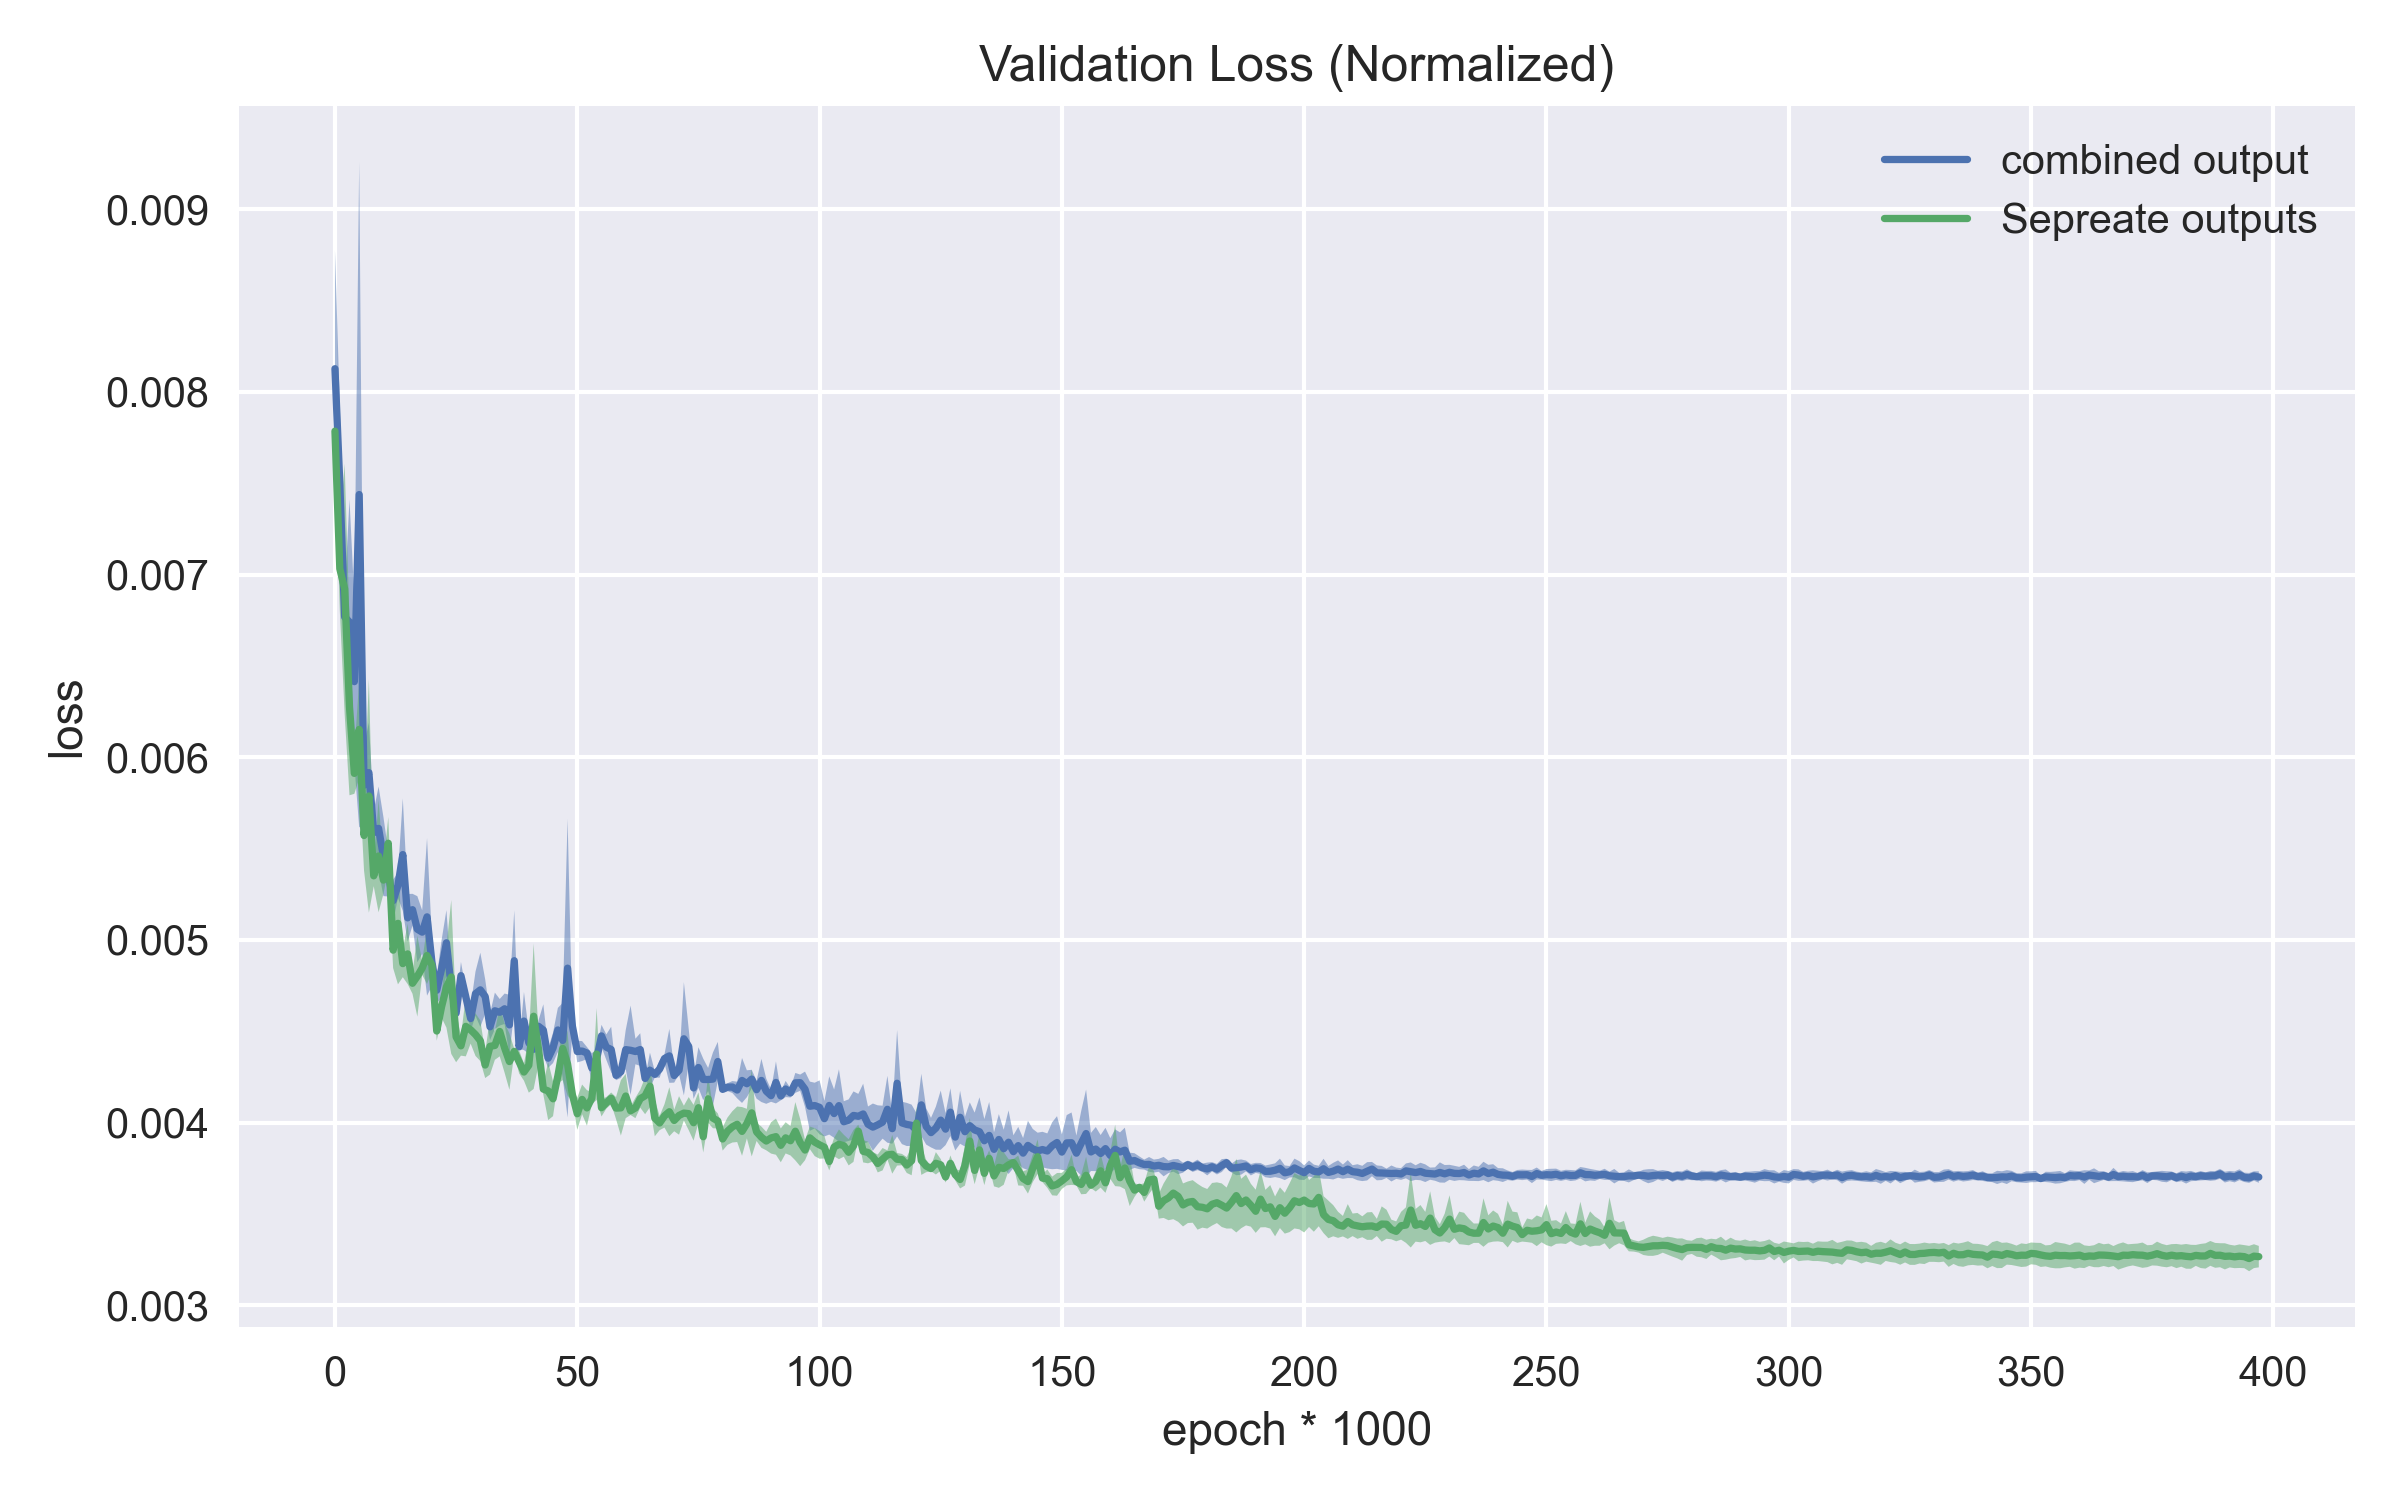
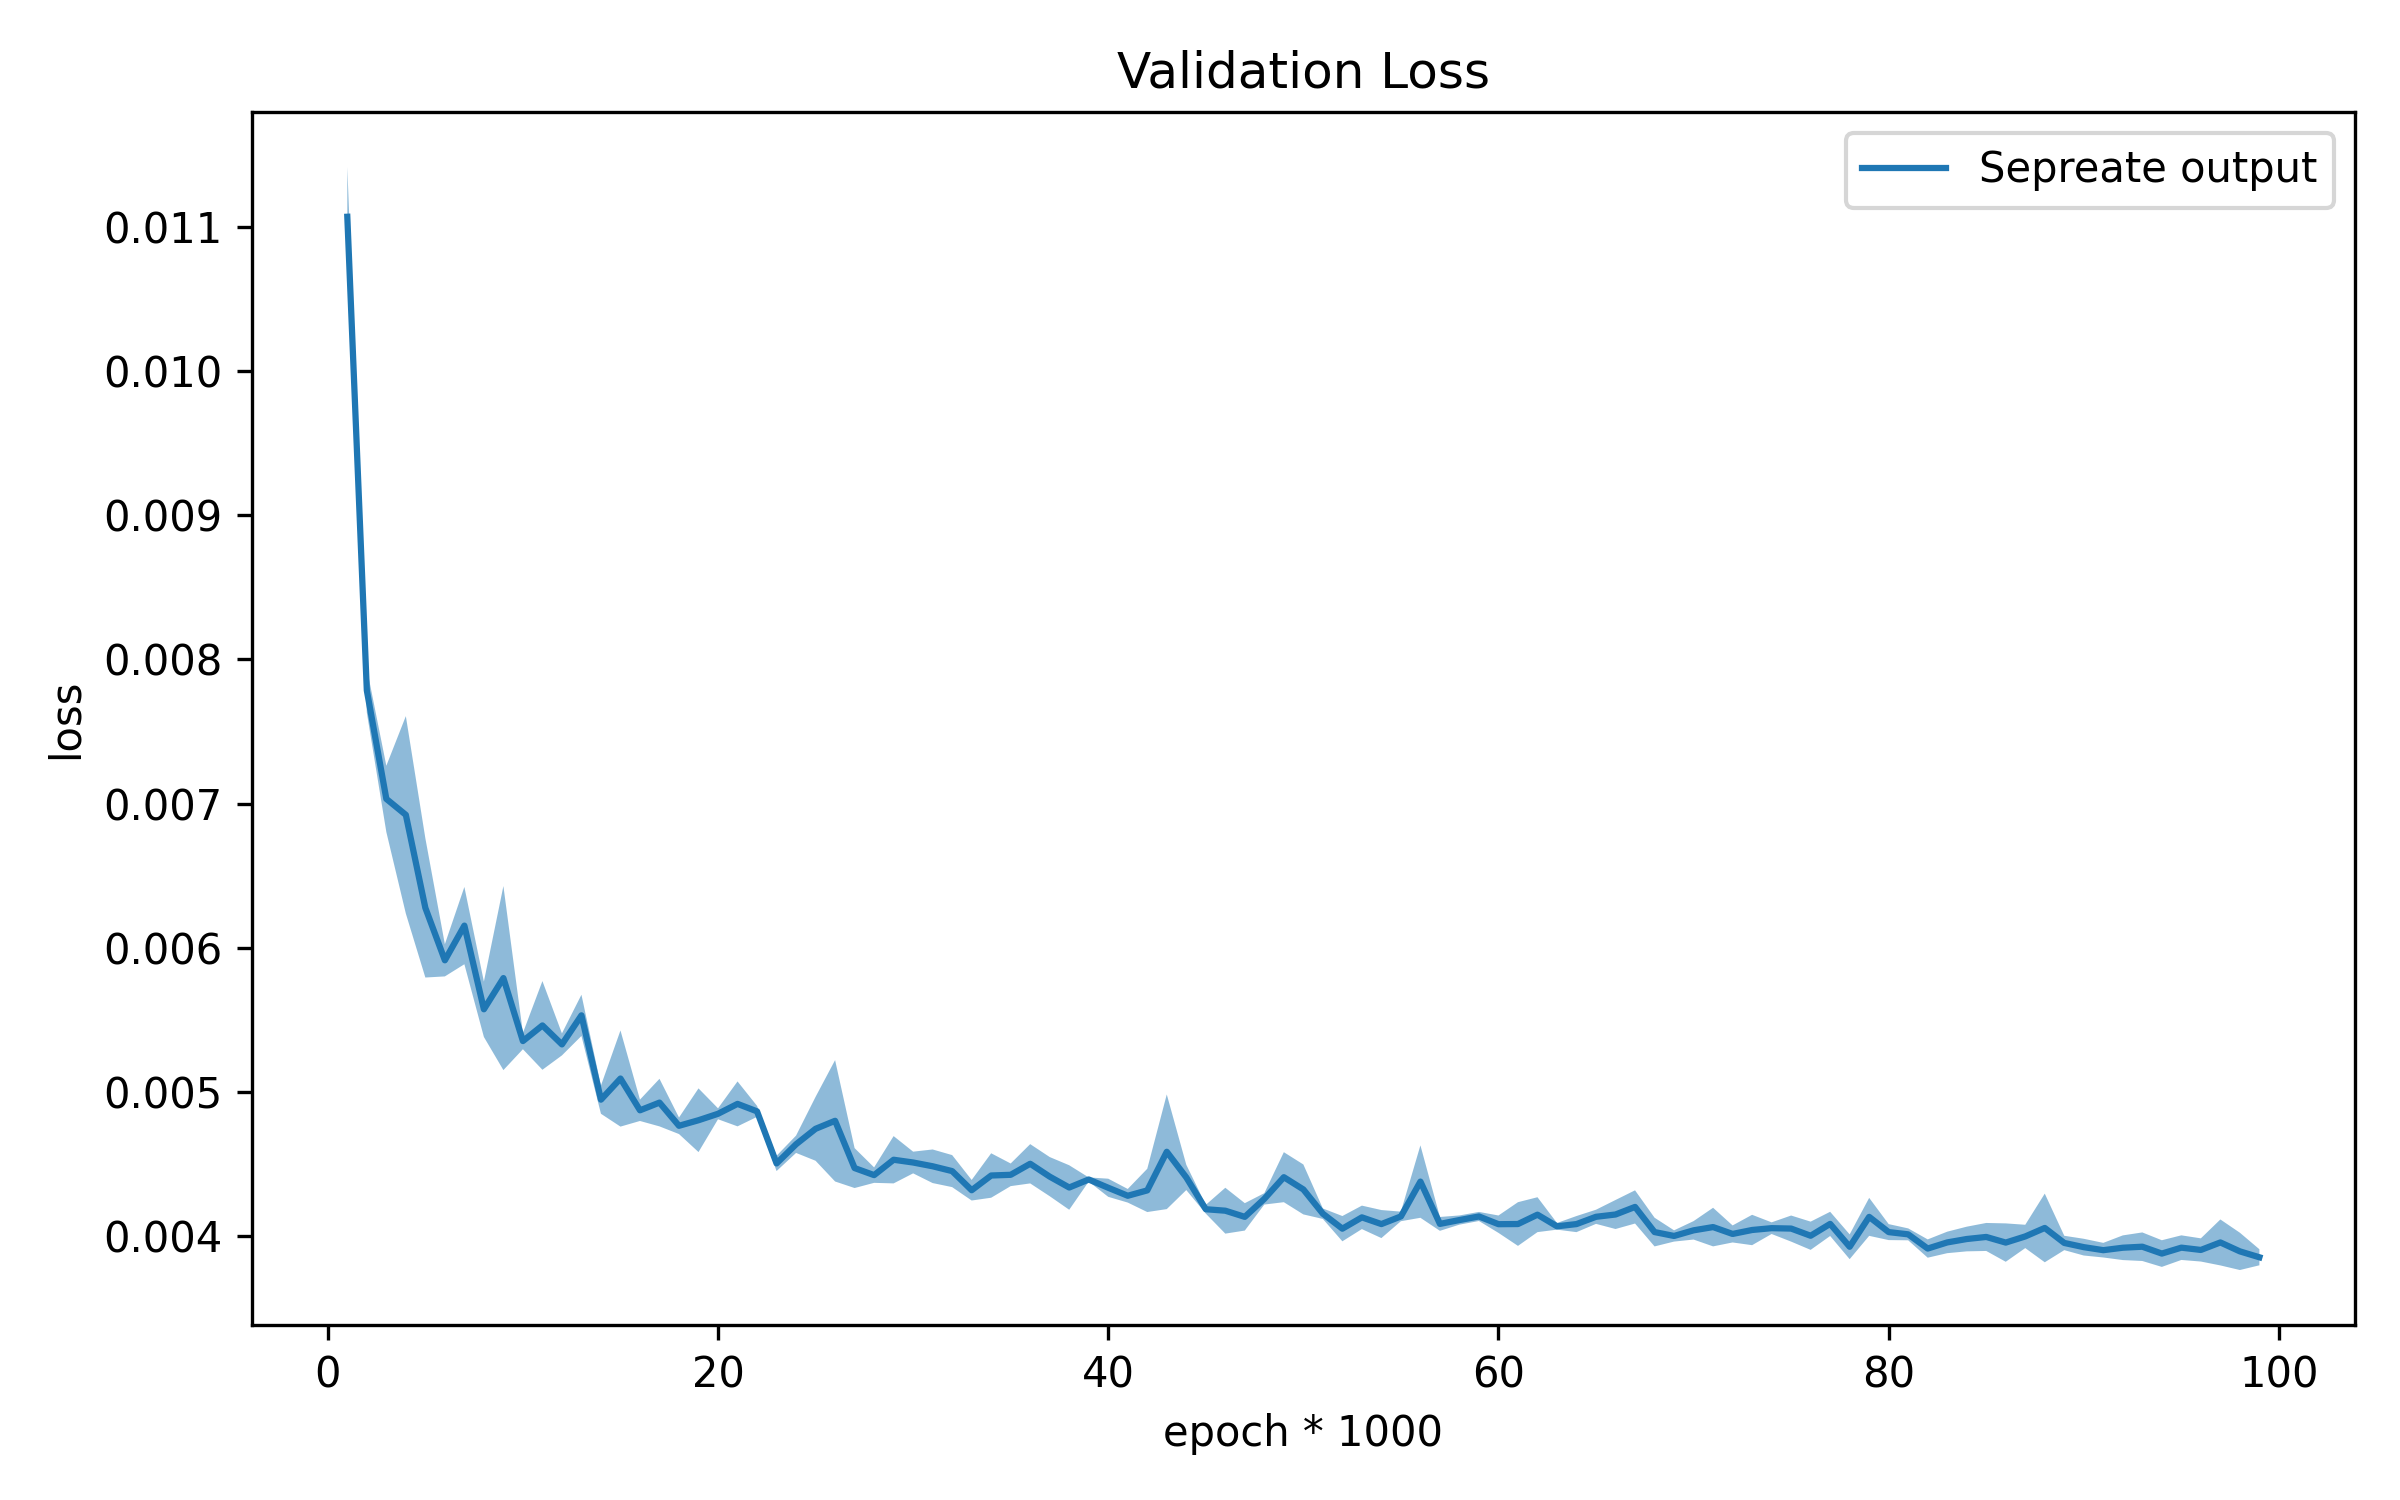
plot

diff --git a/learning_curve.py b/learning_curve.py
@@ -3,13 +3,14 @@ import matplotlib.pyplot as plt
 
 
 class LearningCurve:
-    def __init__(self, dists, epoch):
+    def __init__(self, dists, start, epoch):
         self.dists = dists
         self.seeds = [0, 1, 3]
+        self.start = start
         self.epoch = epoch
         self.curve_dict = {}
         for dist in dists:
-            self.load_data(dist)
+            # self.load_data(dist)
             self.load_data(dist, sep=True)
 
 
@@ -20,40 +21,47 @@ class LearningCurve:
                 path = "train_log_model/%s_id%d_%d(%d)_%s(%s)_cam%d(%d)_sep" % ('sim', 0, 8000, seed, 'PE', 'arm', dist * 1000, seed)
             else:
                 path = "train_log_model/%s_id%d_%d(%d)_%s(%s)_cam%d(%d)" % ('sim', 0, 8000, seed, 'PE', 'arm', dist * 1000, seed)
-            train_log = np.loadtxt(path + "/log_train.txt")[-self.epoch:] # shape: (epoch,)
-            val_log = np.loadtxt(path + "/log_val.txt")[-self.epoch:] # shape: (epoch,)
+            # train_log = np.loadtxt(path + "/log_train.txt")[-self.epoch:] # shape: (epoch,)
+            # val_log = np.loadtxt(path + "/log_val.txt")[-self.epoch:] # shape: (epoch,)
+            train_log = np.loadtxt(path + "/log_train.txt")[self.start:self.epoch] # shape: (epoch,)
+            val_log = np.loadtxt(path + "/log_val.txt")[self.start:self.epoch] # shape: (epoch,)
             log = np.vstack((train_log, val_log)) # shape: (2, epoch)
 
             curve.append(log)
 
         curve = np.array(curve) # shape: (3, 2, epoch)
         print(curve.shape)
-        if sep:
-            self.curve_dict[dist+1] = curve
-        else:
-            self.curve_dict[dist] = curve # dictionary: {dist: (3, 2, epoch)}
+        # if sep:
+        #     self.curve_dict[dist+1] = curve
+        # else:
+        #     self.curve_dict[dist] = curve # dictionary: {dist: (3, 2, epoch)}
+
+        self.curve_dict[dist] = curve
 
             
 
     def plot_curves(self):
         plt.figure(figsize=(8, 5))
-        plt.style.use('seaborn')
-        x = np.arange(self.epoch)
+        # plt.style.use('seaborn')
+        x = np.arange(self.start, self.epoch)
         for dist in self.dists:
             y = np.mean(self.curve_dict[dist][:, 1], axis=0) * (dist * dist) # shape: (epoch,)
             yerr = np.std(self.curve_dict[dist][:, 1], axis=0) * (dist * dist) # shape: (epoch,)
 
-            y_sep = np.mean(self.curve_dict[dist+1][:, 1], axis=0) * (dist * dist) # shape: (epoch,)
-            yerr_sep = np.std(self.curve_dict[dist+1][:, 1], axis=0) * (dist * dist) # shape: (epoch,)
+            # y_sep = np.mean(self.curve_dict[dist+1][:, 1], axis=0) * (dist * dist) # shape: (epoch,)
+            # yerr_sep = np.std(self.curve_dict[dist+1][:, 1], axis=0) * (dist * dist) # shape: (epoch,)
+            
+            y_t = np.mean(self.curve_dict[dist][:, 0], axis=0) * (dist * dist) # shape: (epoch,)
+            yerr_t = np.std(self.curve_dict[dist][:, 0], axis=0) * (dist * dist)
 
-            # plt.plot(x, np.log(y),label="cam_dist=%d mm" % (dist * 1000))
-            # plt.fill_between(x, np.log(y - yerr), np.log(y + yerr), alpha=0.8)
-
-            plt.plot(x, y, label="combined output")
+            plt.plot(x, y, label="Sepreate output")
             plt.fill_between(x, y - yerr, y + yerr, alpha=0.5)
 
-            plt.plot(x, y_sep, label="Sepreate outputs")
-            plt.fill_between(x, y_sep - yerr_sep, y_sep + yerr_sep, alpha=0.5)
+            # plt.plot(x, y_sep, label="Sepreate outputs")
+            # plt.fill_between(x, y_sep - yerr_sep, y_sep + yerr_sep, alpha=0.5)
+
+            # plt.plot(x, y_t, label="Training", linestyle='--')
+            # plt.fill_between(x, y_t - yerr_t, y_t + yerr_t, alpha=0.5)
 
         # plt.yscale("log")
 
@@ -63,7 +71,7 @@ class LearningCurve:
         custom_ticks = np.arange(0.01, 0.004, 5)
         # plt.yticks(custom_ticks, [str(tick) for tick in custom_ticks])
         plt.legend()
-        plt.title("Validation Loss (Normalized)")
+        plt.title("Validation Loss")
         plt.tight_layout()
         plt.savefig("train_log_model/report/learning_curve.png")
         plt.show()
@@ -78,7 +86,7 @@ class LearningCurve:
         cols_label = ['Distance = 800 mm', 'Distance = 1000 mm', 'Distance = 1200 mm']
         fig, axs = plt.subplots(len(rows), len(cols), sharex=True, sharey=True, figsize=(12, 6))
         fig.subplots_adjust(hspace=0.)
-        plt.style.use('seaborn')
+        # plt.style.use('seaborn')
 
         for i, dist in enumerate(cols):
             for j, row in enumerate(rows):
@@ -116,48 +124,49 @@ class LearningCurve:
             dist_best_tloss.append((best_tloss_mean, best_tloss_std))
 
 
-            best_tloss_long_seeds = np.min(self.curve_dict[dist+1][:, 1], axis=1) * dist * dist # shape: (3,)
-            best_tloss_mean = np.mean(best_tloss_long_seeds)
-            best_tloss_std = np.std(best_tloss_long_seeds)
-            dist_best_loss_sep.append((best_tloss_mean, best_tloss_std))
+            # best_tloss_long_seeds = np.min(self.curve_dict[dist+1][:, 1], axis=1) * dist * dist # shape: (3,)
+            # best_tloss_mean = np.mean(best_tloss_long_seeds)
+            # best_tloss_std = np.std(best_tloss_long_seeds)
+            # dist_best_loss_sep.append((best_tloss_mean, best_tloss_std))
 
 
-            best_tloss_long_seeds = np.min(self.curve_dict[dist+1][:, 0], axis=1) * dist * dist # shape: (3,)
-            best_tloss_mean = np.mean(best_tloss_long_seeds)
-            best_tloss_std = np.std(best_tloss_long_seeds)
-            dist_best_tloss_sep.append((best_tloss_mean, best_tloss_std))
+            # best_tloss_long_seeds = np.min(self.curve_dict[dist+1][:, 0], axis=1) * dist * dist # shape: (3,)
+            # best_tloss_mean = np.mean(best_tloss_long_seeds)
+            # best_tloss_std = np.std(best_tloss_long_seeds)
+            # dist_best_tloss_sep.append((best_tloss_mean, best_tloss_std))
 
 
         # plt.figure(figsize=(12, 6))
         # plt.style.use('seaborn')
         # plt.style.use('seaborn-whitegrid')
-        width = 0.3    # the width of the bars: can also be len(x) sequence
-        fig, ax = plt.subplots(figsize=(10, 5))
+        width = 0.1    # the width of the bars: can also be len(x) sequence
+        fig, ax = plt.subplots(figsize=(8, 6))
         x = np.arange(len(self.dists))
         y = [loss for loss, _ in dist_best_loss]
         yerr = [std for _, std in dist_best_loss]
         yt = [loss for loss, _ in dist_best_tloss]
         yterr = [std for _, std in dist_best_tloss]
 
-        y_sep = [loss for loss, _ in dist_best_loss_sep]
-        yerr_sep = [std for _, std in dist_best_loss_sep]
-        yt_sep = [loss for loss, _ in dist_best_tloss_sep]
-        yterr_sep = [std for _, std in dist_best_tloss_sep]
+        # y_sep = [loss for loss, _ in dist_best_loss_sep]
+        # yerr_sep = [std for _, std in dist_best_loss_sep]
+        # yt_sep = [loss for loss, _ in dist_best_tloss_sep]
+        # yterr_sep = [std for _, std in dist_best_tloss_sep]
 
-        np.savetxt("train_log_model/report/best_loss.txt", np.array([y, yerr, yt, yterr, y_sep, yerr_sep, yt_sep, yterr_sep]))
+        # np.savetxt("train_log_model/report/best_loss.txt", np.array([y, yerr, yt, yterr, y_sep, yerr_sep, yt_sep, yterr_sep]))
 
         # bar chart with error bars
         rects1 = ax.bar(x+width/2, y, yerr=yerr, capsize=5, label='Validation', width=width)
         rects2 = ax.bar(x-width/2, yt, yerr=yterr, capsize=5, label='Training', width=width)
 
-        rects3 = ax.bar(x+1+width/2, y_sep, yerr=yerr_sep, capsize=5, label='Validation (Sep)', width=width)
-        rects4 = ax.bar(x+1-width/2, yt_sep, yerr=yterr_sep, capsize=5, label='Training (Sep)', width=width)
+        # rects3 = ax.bar(x+1+width/2, y_sep, yerr=yerr_sep, capsize=5, label='Validation (Sep)', width=width)
+        # rects4 = ax.bar(x+1-width/2, yt_sep, yerr=yterr_sep, capsize=5, label='Training (Sep)', width=width)
 
         # plt.errorbar(x, y, yerr=yerr, fmt='o', capsize=5)
-        plt.xticks([0, 1], ["combined output", "separate outputs"])
+        # plt.xticks([0, 1], ["combined output", "separate outputs"])
         # plt.xlabel("Camera Distance (mm)")
-        plt.ylabel("Normalized MSE Loss")
-        plt.title("Minimal Training Loss and Validation Loss (Normalized)")
+        plt.xticks([0], [])
+        plt.ylabel("MSE Loss")
+        plt.title("Minimal Training Loss and Validation Loss (Separate Outputs)")
         
         plt.legend()
         plt.savefig("train_log_model/report/best_loss.png")
@@ -166,7 +175,7 @@ class LearningCurve:
 
 if __name__ == "__main__":
     dists = [1.0]
-    lc = LearningCurve(dists, 398)
+    lc = LearningCurve(dists, 1, 100)  # plot epoches x-axis: start, end
     plt.rcParams['figure.dpi'] = 100
     plt.rcParams['savefig.dpi'] = 300
     lc.plot_curves()
